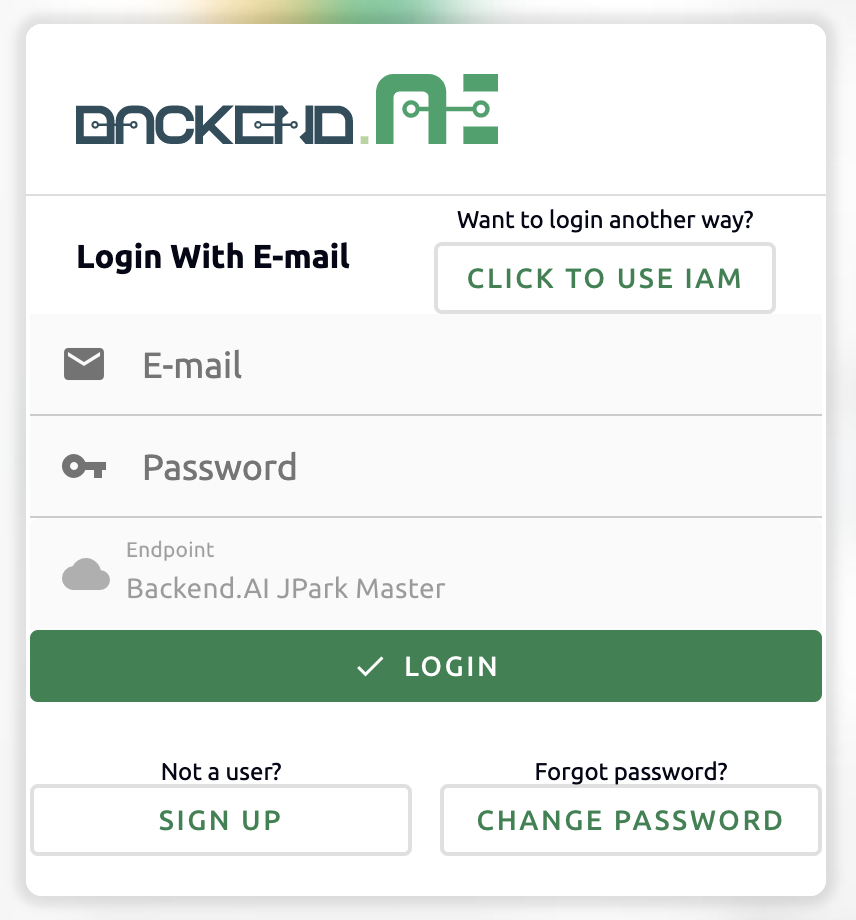
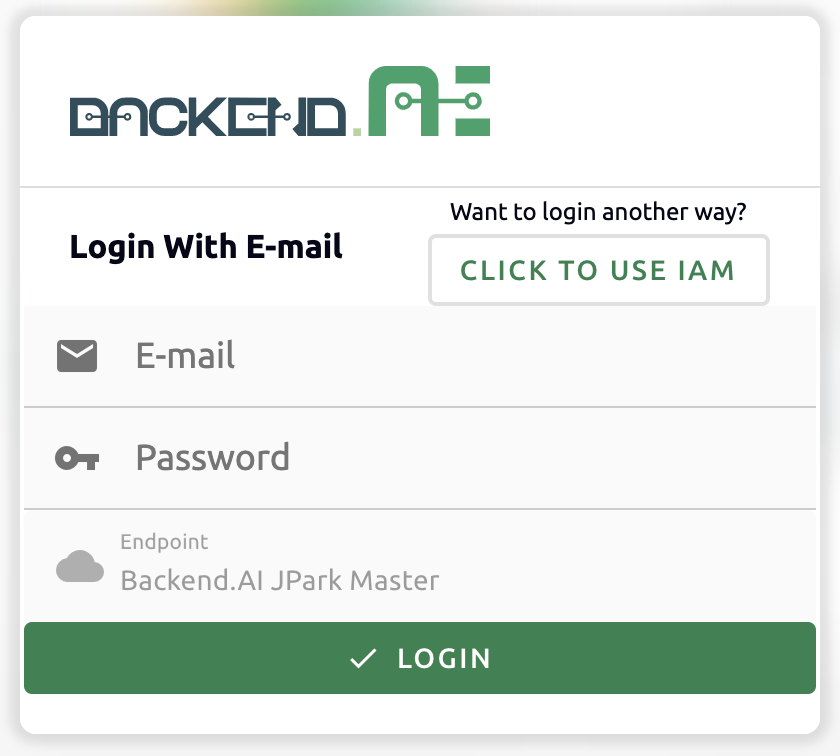
docs: remove signup and change password feature

diff --git a/docs/login/login.rst b/docs/login/login.rst
@@ -1,42 +1,15 @@
-================
-Signup and Login
-================
+=====
+Login
+=====
 
-Signup
-------
-
-When you launch the GUI console, login dialog appears. If you haven't signed up
-yet, press the SIGN UP button.
+Enter your ID and password and press the LOGIN button. In API ENDPOINT, the URL
+of Backend.AI Console Server, which relays the request to the Manager, should be
+entered.
 
 .. image:: login_dialog.png
    :width: 400
    :align: center
    :alt: Login dialog
-
-Enter email, username, password, etc., read and agree to the Terms of Service /
-Privacy Policy, and click the SIGNUP button. Depending on your system settings,
-you may need to enter an invitation token to sign up.  Furthermore, an email may
-be sent to verify that the email is yours. If a verification email is sent, you
-will need to read the email and click the link inside to pass verification
-before you can log in with your account.
-
-.. image:: signup_dialog.png
-   :width: 350
-   :align: center
-   :alt: Signup dialog
-
-.. note::
-   Depending on the server configuration and plugin settings, sign up by
-   anonymous user may not be allowed. In that case, please contact administrator
-   of your system.
-
-
-Login
------
-
-Enter your ID and password and press the LOGIN button. In API ENDPOINT, the URL
-of Backend.AI Console Server, which relays the request to the Manager, should be
-entered.
 
 .. note::
    Depending on the installation and setup environment of the Console Server,
@@ -51,21 +24,8 @@ can logout by selecting the Log Out menu.
 .. image:: signout_button.png
    :alt: Signout button
 
-
-When you forgot your password
------------------------------
-
-If you have forgotten your password, you can click the CHANGE PASSWORD button on
-the login panel to email a link to change password. You can change your password
-by reading and following the instruction. Depending on the server settings, the
-password change feature may be disabled. In this case, contact the
-administrator.
-
-.. image:: forgot_password_panel.png
-   :width: 350
-   :align: center
-   :alt: Signout button
-
 .. note::
-   This is also a modular feature, so changing password may not be possible in
-   some systems.
+   Depending on the server/client setting, user can sign up by themselves
+   through email verification, which requires connection to AWS with paid
+   account. For most on-premise installation, this feature is disabled by
+   default.
